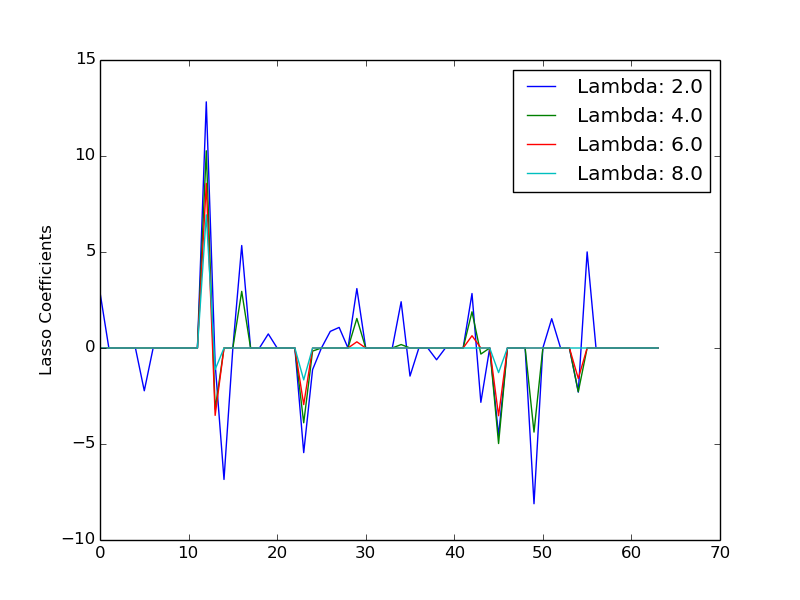
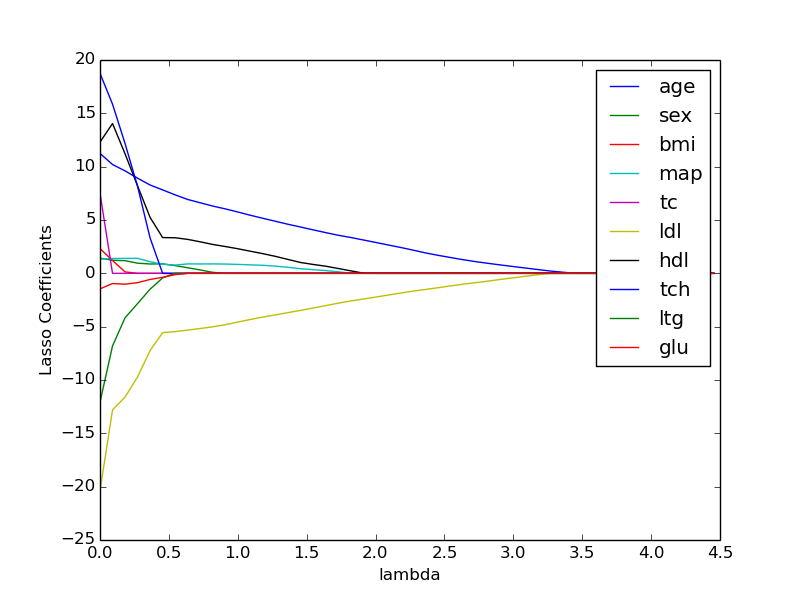
Add coef plot

diff --git a/week5/lasso.py b/week5/lasso.py
@@ -24,6 +24,7 @@ def calc_s(y, lamb):
 
 #Read in data
 X = pd.read_csv('diabetesX.csv')
+col_names=X.columns.values.tolist()
 y = pd.read_csv('diabetesY.csv')
 y = y.values
 X = X.values
@@ -38,15 +39,27 @@ plt.figure(1)
 mse_test=[]
 mse_train=[]
 vec_lambda=np.linspace(0,9,100)
+vec_coef=[]
 for alpha in vec_lambda:
     lasso = Lasso(alpha=alpha)
     y_pred = lasso.fit(X_train, y_train).predict(X_test)
-    #s = calc_s(y_pred, alpha)
     mse_test.append(calc_mse(y_test,y_pred,X_test))
     mse_train.append(calc_mse(y_train,y_pred,X_train))
+    vec_coef.append(lasso.coef_)
     if alpha%2==0 and alpha!=0:
         plt.plot(lasso.coef_, label="Lambda: "+str(alpha))
+
+plt.figure(3)
+vec_coef = np.asarray(vec_coef).T
+for i in xrange(10):#len(vec_coef[:,0])):
+    print i
+    plt.plot(vec_lambda[:50], vec_coef[i,:50], label=col_names[i])
+    plt.ylabel('Coefficient Value')
+    plt.xlabel('lambda')
+    plt.legend()
+    plt.savefig('coef_lambda.png',format='png')
     
+
 plt.ylabel('Lasso Coefficients')
 plt.legend(loc='upper right')
 plt.savefig('result_lasso_coef.png', format='png')
